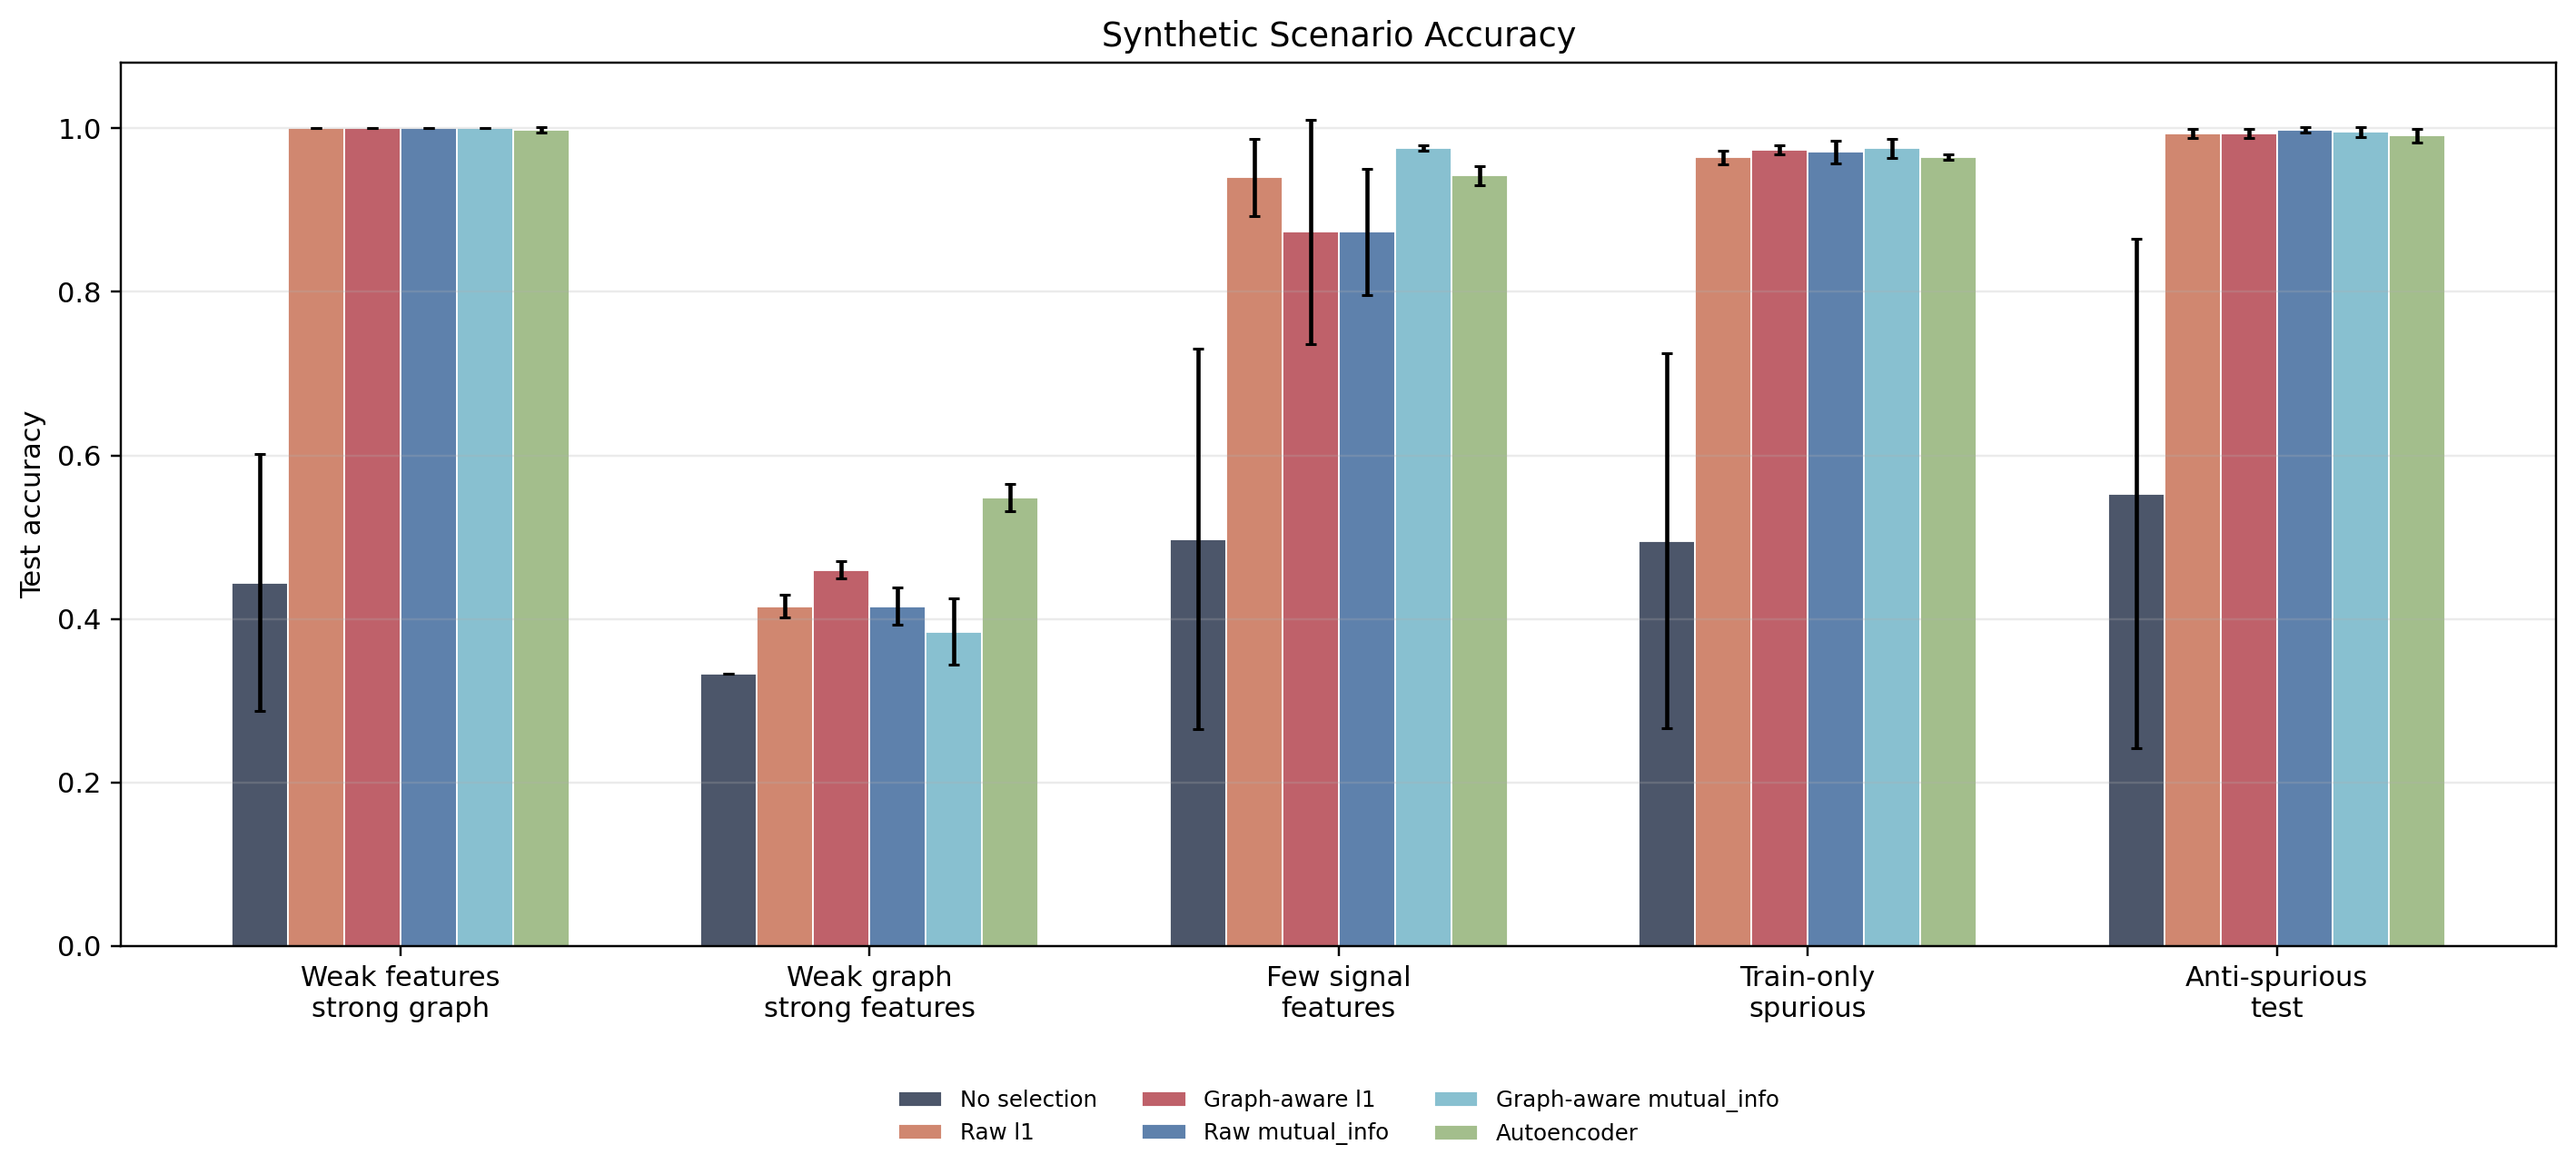
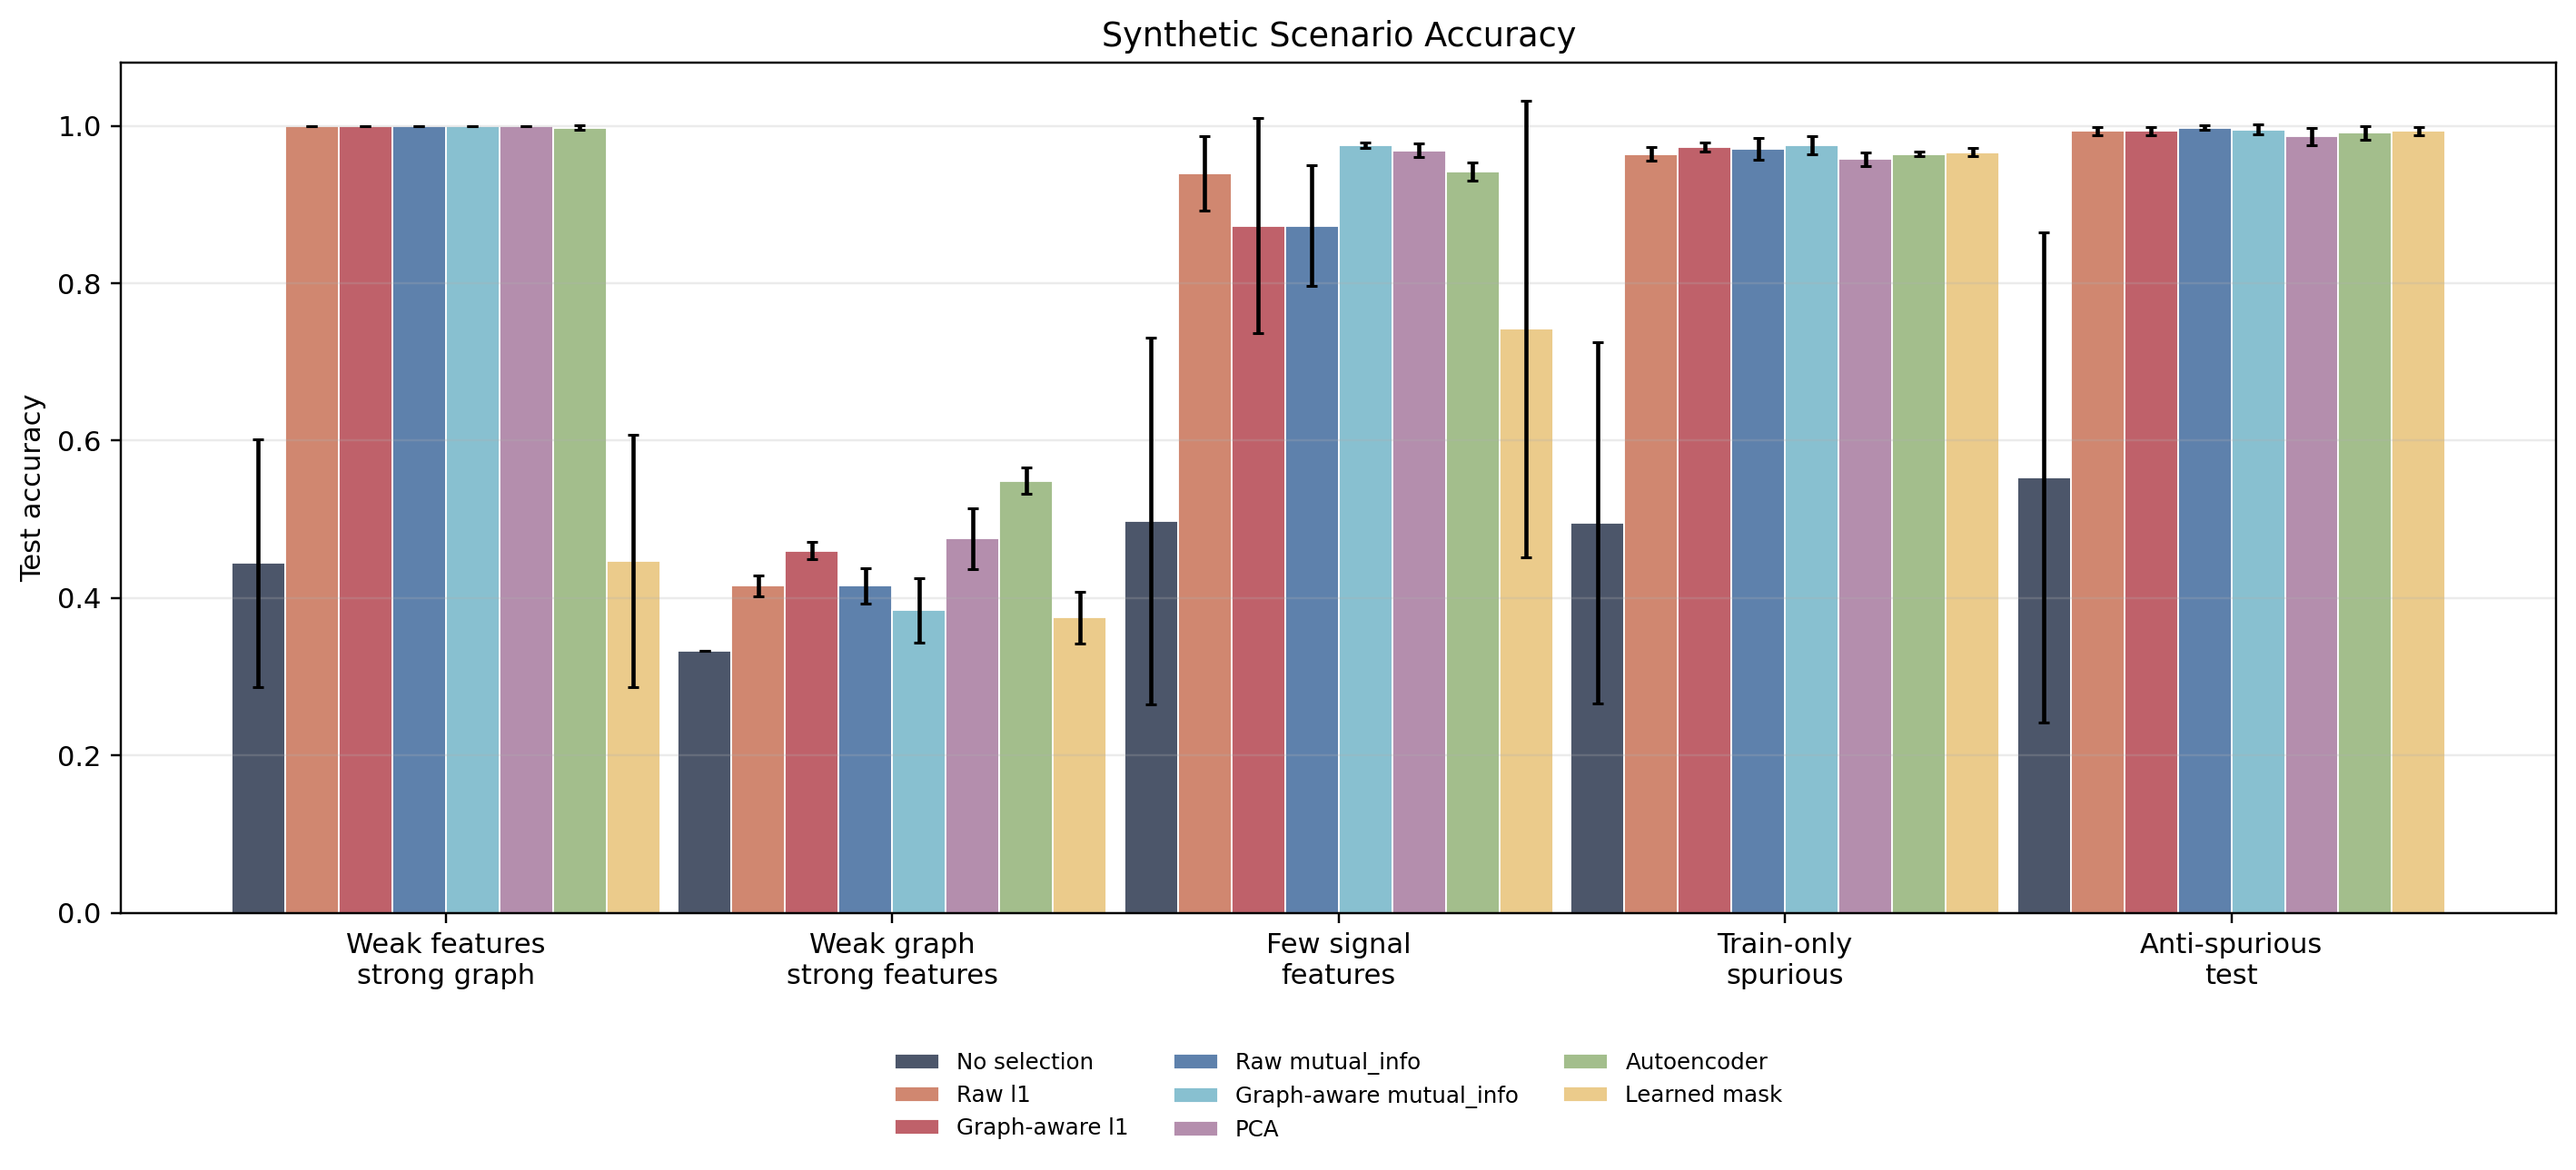
more synthetic stuff

diff --git a/src/synthetic_experiments.py b/src/synthetic_experiments.py
@@ -1,16 +1,21 @@
 import csv
+from pathlib import Path
 
 import numpy as np
 
 from experiments import (
     run_autoencoder_experiment_avg,
+    run_learned_mask_experiment_avg,
     run_no_selection_baseline_avg,
+    run_pca_experiment_avg,
     run_preprocessing_selection_experiment_avg,
 )
 from preprocessing_selection import select_features_mutual_info, select_top_k_features_l1
 from synthetic_data import make_scenario
 from util import aggregate_features
 
+
+DEFAULT_OUTPUT_CSV = Path(__file__).with_name("synthetic_results.csv")
 
 SCENARIOS_TO_RUN = [
     "weak_features_strong_graph",
@@ -30,7 +35,9 @@ METHODS_TO_RUN = [
     "Graph-aware l1",
     "Raw mutual_info",
     "Graph-aware mutual_info",
+    "PCA",
     "Autoencoder",
+    "Learned mask",
 ]
 
 SELECTION_METHODS = {
@@ -84,6 +91,25 @@ def run_method(dataset, method, k, seed):
             noise_ratio=0.0,
             noise_type="dense_junk",
             latent_dim=min(64, dataset[0].x.shape[1]),
+            seeds=[seed],
+        )
+
+    if method == "PCA":
+        return run_pca_experiment_avg(
+            dataset,
+            noise_ratio=0.0,
+            noise_type="dense_junk",
+            n_components=min(64, dataset[0].x.shape[1]),
+            seeds=[seed],
+        )
+
+    if method == "Learned mask":
+        return run_learned_mask_experiment_avg(
+            dataset,
+            noise_ratio=0.0,
+            noise_type="dense_junk",
+            mask_lambda=0.0,
+            k=k,
             seeds=[seed],
         )
 
@@ -146,7 +172,7 @@ def run_synthetic_scenarios(
     scenarios=None,
     methods=None,
     seeds=None,
-    output_csv="synthetic_results.csv",
+    output_csv=DEFAULT_OUTPUT_CSV,
 ):
     if scenarios is None:
         scenarios = SCENARIOS_TO_RUN
